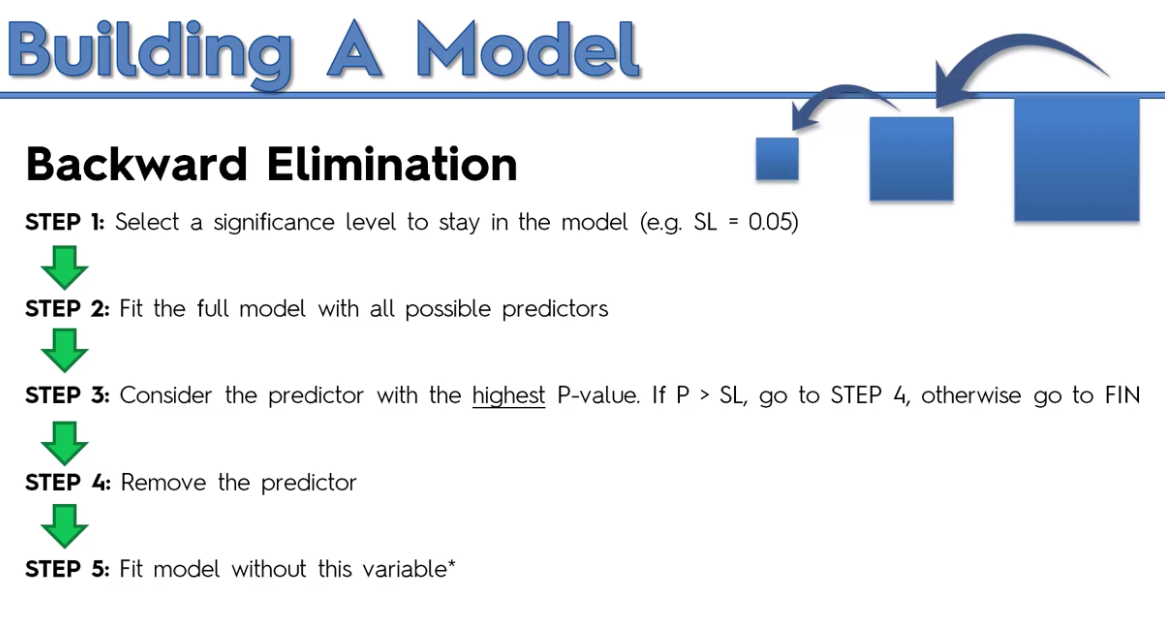
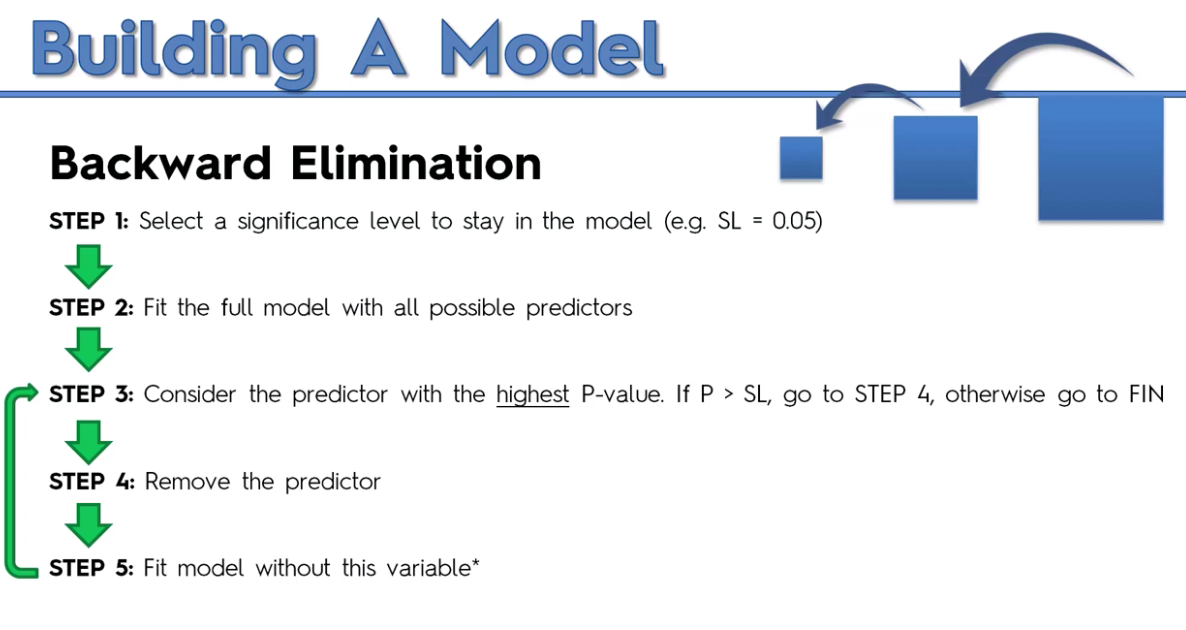
37 - Multiple Linear Regression Intuition - Step 5 - 5 Models

Changed region(s): [[0.0, 0.3371, 0.9888, 0.95], [0.0, 0.0306, 1.0, 0.3677], [0.0, 0.2145, 0.4635, 0.3065]]

diff --git a/README.md b/README.md
@@ -389,16 +389,14 @@ Out[13]: LinearRegression(copy_X=True, fit_intercept=True, n_jobs=1, normalize=F
 #### There are 5 Methods to Building a Model
 
 * (1) **All-in** - throw in all your variables (a) if you have prior knowledge of factors, (b) you have to such as required by your company, (c) preparing for Backward Elimination,  
-* (2) **Backward Elimination** - (a) Sleect a significance level, (b) Fit full model with all predictors, (c) Consider predictor with highest p-value, if P > SL got to next step,else FIN, (d) Remove that pedictor, (e) Fit model without this variable
-* (3) **Forward Selection**
-* (4) **Bidirectional Elimination (Stepwise Regression)**
-* (5) **Score Comparison**
+* (2) **Backward Elimination** - (a) Sleect a significance level, (b) Fit full model with all predictors, (c) Consider predictor with highest p-value, if P > SL got to next step,else FIN, (d) Remove that pedictor, (e) Fit model without this variable, (f) Go back to c
+* (3) **Forward Selection** - (a) Sleect a significance level, (b) Fit all simple regression models, select one with lowest p-value, (c) Keep this variable and fit all possible models with 1 extra predictor added to what you have, (d) get the predictor with the lowest p-value . If P<SL go to c, else FIN
+* (4) **Bidirectional Elimination (Stepwise Regression)** see 37-8-Bidirectional-Elimination.png
+* (5) **Score Comparison** (All possible models) -  
 
 * #2,3,4 are Stepwise Regressions,  usually #4 is implied.
 
-
-
-
+* We're going to concentrate on Backward Elimination because it's the fastest and you still get to see the step by step
 
 ### 38 - Multiple Linear Regression in Python - Step 1 15:57
 
